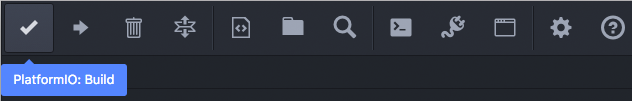
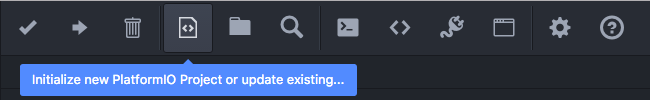
Update docs for PlatformIO IDE 1.0.0

diff --git a/docs/ide/atom.rst b/docs/ide/atom.rst
@@ -43,12 +43,30 @@ config file.
 Installation
 ------------
 
-1. Download and install Atom text editor
+PlatformIO IDE is the next generation integrated development environment for IoT.
+It's built on top of `GitHub's Atom "hackable" text editor <https://atom.io>`_.
+If you have already Atom installed, please install `PlatformIO IDE for Atom package <https://atom.io/packages/platformio-ide>`_.
 
-    - `Download for Mac <https://atom.io/download/mac>`_
-    - `Download for Windows <https://atom.io/download/windows>`_
-    - `Download .deb <https://atom.io/download/deb>`_
-    - `Download .rpm <https://atom.io/download/rpm>`_
+Automatic Installation
+~~~~~~~~~~~~~~~~~~~~~~
+
+Please download PlatformIO IDE for Atom bundle with built-in auto installer
+(be patient and let the installation complete)
+
+- `Download PlatformIO IDE for Mac <https://sourceforge.net/projects/platformio-storage/files/ide-bundles/platformio-atom-windows.exe/download>`_
+- `Download PlatformIO IDE for Windows <https://sourceforge.net/projects/platformio-storage/files/ide-bundles/platformio-atom-mac.zip/download>`_
+- `Download PlatformIO IDE .deb <https://sourceforge.net/projects/platformio-storage/files/ide-bundles/platformio-atom-linux-amd64.deb/download>`_
+- `Download PlatformIO IDE .rpm <https://sourceforge.net/projects/platformio-storage/files/ide-bundles/platformio-atom-linux-amd64.rpm/download>`_
+
+Manual Installation
+~~~~~~~~~~~~~~~~~~~
+
+1. Download and install the latest Atom text editor
+
+    - `Download Atom for Mac <https://atom.io/download/mac>`_
+    - `Download Atom for Windows <https://atom.io/download/windows>`_
+    - `Download Atom .deb <https://atom.io/download/deb>`_
+    - `Download Atom .rpm <https://atom.io/download/rpm>`_
     - `Other platforms <https://github.com/atom/atom/releases/latest>`_
 
 
@@ -86,13 +104,13 @@ Each button contains hint (delay mouse on it).
 * PlatformIO: Build
 * PlatformIO: Upload
 * PlatformIO: Clean
-* Toggle build panel
 * ||
-* New File
+* Initialize new PlatformIO Project or update existing...
 * Add/Open Project Folder...
 * Find in Project...
 * ||
 * Terminal
+* Library Manager
 * Serial Ports
 * Serial Monitor
 * ||
@@ -106,14 +124,11 @@ Quickstart
 
 :Step 1:
 
-    Create empty directory for the future project. Add it to PlatformIO IDE
-    using (folder) button on the Toolbar or ``Menu: File > Add Project
-    Folder...``
+    Initialize new PlatformIO based project using button on the Toolbar or
+    ``Menu: PlatformIO > Initialize new PlatformIO Project or update existing...``.
 
 :Step 2:
 
-    Initialize new PlatformIO based project using ``Menu: PlatformIO >
-    Initialize new Project (or update existing)`` and select boards.
     Put your source code ``*.h, *.c, *.cpp, *.S, *.ino, etc``. files to ``src``
     directory.
 
@@ -138,10 +153,10 @@ Building / Uploading / Targets
 
 More details `Atom Build package <https://atom.io/packages/build>`_.
 
-Code completion
-~~~~~~~~~~~~~~~
+Intelligent Code Autocompletion
+~~~~~~~~~~~~~~~~~~~~~~~~~~~~~~~
 
-PlatformIO IDE uses `clang <http://clang.llvm.org>`_ for the code completion.
+PlatformIO IDE uses `clang <http://clang.llvm.org>`_ for the Intelligent Code Autocompletion.
 To check that ``clang`` is available in your system, please open
 Terminal and run ``clang --version``. If ``clang`` is not installed, then install it:
 
@@ -158,13 +173,15 @@ Terminal and run ``clang --version``. If ``clang`` is not installed, then instal
     not be reflected in code linter. You need ``Menu: PlatformIO >
     Rebuild C/C++ Project Index (Autocomplete, Linter)``.
 
-Code linter
-~~~~~~~~~~~
+.. _ide_atom_smart_code_linter:
 
-PlatformIO IDE uses PlatformIO's pre-built GCC toolchains for code linting. The
-settings for Linter are located in ``.gcc-flags.json``. This file will be
+Smart Code Linter
+~~~~~~~~~~~~~~~~~
+
+PlatformIO IDE uses PlatformIO's pre-built GCC toolchains for Smart Code Linter. The
+configuration data are located in ``.gcc-flags.json``. This file will be
 automatically created and preconfigured when you initialize project using
-``Menu: PlatformIO > Initialize new Project (or update existing)``.
+``Menu: PlatformIO > Initialize new PlatformIO Project or update existing...``.
 
 .. warning::
     The libraries which are added/installed after initializing process will
@@ -175,7 +192,7 @@ automatically created and preconfigured when you initialize project using
 .. error::
     If you have error like ``linter-gcc: Executable not found`` and
     ``"***/.platformio/packages/toolchain-atmelavr/bin/avr-g++" not found``
-    please ``Menu: PlatformIO > Initialize new Project (or update existing)``.
+    please ``Menu: PlatformIO > Initialize new PlatformIO Project or update existing...``.
 
 Install Shell Commands
 ~~~~~~~~~~~~~~~~~~~~~~
@@ -185,6 +202,59 @@ PlatformIO > Install Shell Commands``. It will allow you to call PlatformIO from
 other process, terminal and etc.
 
 Known issues
-~~~~~~~~~~~~
+------------
 
-* Built-in Terminal doesn't support ``STDIN`` interaction
+Smart Code Linter is disabled for Arduino files
+~~~~~~~~~~~~~~~~~~~~~~~~~~~~~~~~~~~~~~~~~~~~~~~
+
+:ref:`ide_atom_smart_code_linter` is disabled by default for Arduino files
+(``*.ino`` and ``.pde``) because they  are not valid C/C++ based
+source files:
+
+1. Missing includes such as ``#include <Arduino.h>``
+2. Function declarations are omitted.
+
+There are two solutions:
+
+Convert Arduino file to C++ manually
+^^^^^^^^^^^^^^^^^^^^^^^^^^^^^^^^^^^^
+
+For example, we have the next ``Demo.ino`` file:
+
+.. code-block:: c++
+
+    void function setup () {
+        someFunction(13);
+    }
+
+    void function loop() {
+        delay(1000);
+    }
+
+    void someFunction(int num) {
+    }
+
+Let's convert it to  ``Demo.cpp``:
+
+1. Add ``#include <Arduino.h>`` at the top of file
+2. Declare each custom function (excluding built-in, such as ``setup`` and ``loop``)
+   before it will be called.
+
+The final ``Demo.cpp``:
+
+.. code-block:: c++
+
+    #include <Arduino.h>
+
+    void someFunction(int num);
+
+    void function setup () {
+        someFunction(13);
+    }
+
+    void function loop() {
+        delay(1000);
+    }
+
+    void someFunction(int num) {
+    }
